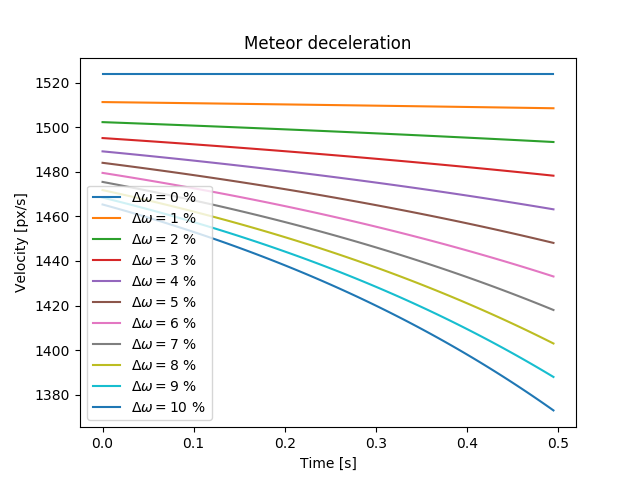
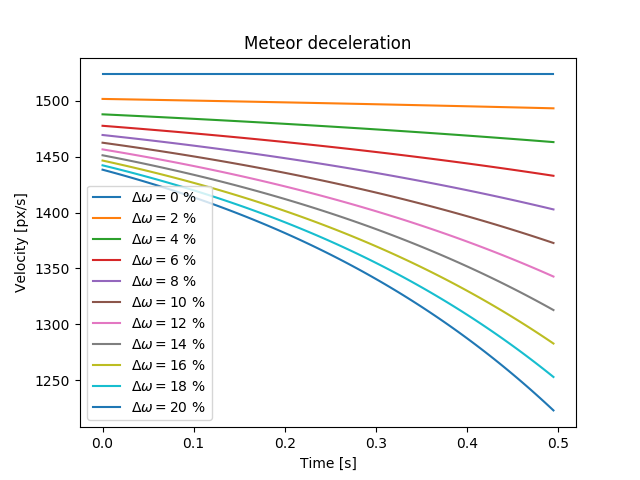
moved deceleration plot to dec_generator.py

diff --git a/Figures/Source/dec_generator.py b/Figures/Source/dec_generator.py
@@ -1,0 +1,57 @@
+import sys
+
+sys.path.insert(0, "../../Source")
+
+import SimulationTools as st 
+import Parameters as par
+import numpy as np 
+import matplotlib.pyplot as plt
+
+omega_start = 50
+
+start = 0
+fin = omega_start*0.21
+step = omega_start*0.02
+delta_omega = np.arange(start, fin, step)
+
+
+a = 1.1
+b_arr = []
+
+fin_t = 0.5
+dt = 0.005
+time_arr = np.arange(0, fin_t, dt)
+
+for i in range(len(delta_omega)):
+    b_arr.append(st.getparam(a, omega_start, omega_start - delta_omega[i], fin_t))
+
+print(b_arr)
+
+
+omega_arr = []
+
+for i in range(len(delta_omega)):
+
+    b_iter = b_arr[i]
+    omega_arr_iter = []
+
+    for t in time_arr:
+
+        omega_arr_iter.append((omega_start - a*b_iter*np.exp(b_iter*t))*par.scale)
+
+    omega_arr.append(omega_arr_iter)
+
+
+for i in range(len(delta_omega)):
+
+    plt.plot(time_arr, omega_arr[i], label = r'$\Delta \omega = {:.0f}$ %'.format(100*delta_omega[i]/omega_start))
+
+
+plt.title('Meteor deceleration')
+plt.xlabel('Time [s]')
+plt.ylabel('Velocity [px/s]')
+plt.legend(loc = 'best')
+
+plt.savefig('../Images/deceleration/dec_rep.png')
+
+plt.show()
